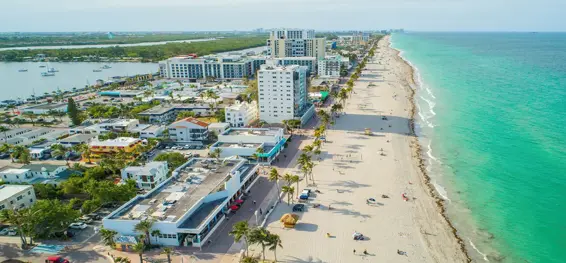
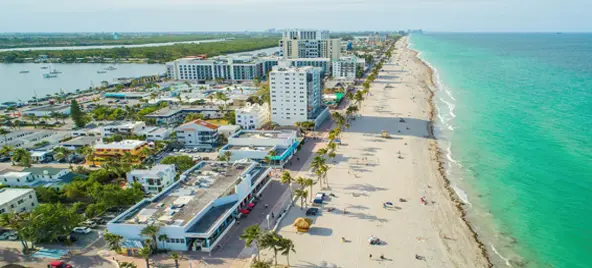
Cambios en las metricas y services.

diff --git a/front/index.html b/front/index.html
@@ -142,38 +142,21 @@
 
           <div>
             <div class="container text-left">
-              <div class="row align-items-start" style="margin-bottom: 0">
+              <div class="row metrics-row">
                 <div class="col-sm column-divider">
-                  <strong
-                    >+$<span class="counter" data-target="300"></span>M</strong
-                  >
-                  <span class="stat-description"> Advisory Pipeline </span>
+                  <strong>
+                    +$<span class="counter" data-target="200"></span>M
+                  </strong>
+                  <span class="stat-description">Advised Transactions</span>
                 </div>
+
                 <div class="col-sm column-divider">
-                  <strong
-                    >+$<span class="counter" data-target="145"></span>M</strong
-                  >
-                  <span class="stat-description"> Advised Transactions </span>
-                </div>
-                <div class="col-sm column-divider">
-                  <strong
-                    >+<span class="counter" data-target="20"></span
-                    >Years</strong
-                  >
-                  <span class="stat-description"> Global Experience </span>
+                  <strong>
+                    +<span class="counter" data-target="20"></span>Years
+                  </strong>
+                  <span class="stat-description">Global Experience</span>
                 </div>
               </div>
-            </div>
-
-            <div class="col text-start">
-              <a
-                href="./about-us.html"
-                class="btn btn-outline-dark btn-learn-more rounded-pill custom-btn-style"
-                style="margin-top: 40px; text-align: left"
-              >
-                About Us
-                <i class="bi bi-arrow-right"></i>
-              </a>
             </div>
           </div>
         </div>
@@ -181,62 +164,37 @@
         <div id="services" class="our-services">
           <h2 class="section-title">Services</h2>
 
-          <section class="services">
-            <div class="row no-margin-top">
-              <div class="col-md-12">
-                <div class="border">
-                  <div class="accordion-content">
-                    <div class="accordion-item">
-                      <h3 class="accordion-header">
-                        <strong
-                          >Strategic Advisory & Capital Partners Network</strong
-                        >
-                      </h3>
-                      <p>
-                        We provide strategic advisory services to experienced
-                        developers and facilitate introductions to a network of
-                        strategic partners, institutional counterparties, and
-                        family offices interested in high-quality real estate
-                        opportunities.
-                      </p>
-                      <hr />
-                    </div>
+          <section class="services-container">
+            <div class="services-grid">
+              <!-- Servicio 1 -->
+              <div class="service-column">
+                <h3>Strategic Advisory & Capital Partners Network</h3>
+                <p>
+                  We provide strategic advisory to experienced developers and
+                  facilitate introductions to institutional counterparties and
+                  family offices interested in high-quality real estate
+                  opportunities.
+                </p>
+              </div>
 
-                    <div class="accordion-item">
-                      <h3 class="accordion-header">
-                        <strong>Project Positioning & Capital Alignment</strong>
-                      </h3>
-                      <p>
-                        We assist developers in positioning projects to align
-                        with the investment criteria and strategic objectives of
-                        potential capital partners, supporting constructive
-                        engagement and long-term relationships between
-                        independent counterparties.
-                      </p>
-                      <hr />
-                    </div>
+              <!-- Servicio 2 -->
+              <div class="service-column">
+                <h3>Project Positioning & Capital Alignment</h3>
+                <p>
+                  We assist developers in positioning projects to align with the
+                  investment criteria of potential capital partners, supporting
+                  long-term relationships between independent counterparties.
+                </p>
+              </div>
 
-                    <div class="accordion-item">
-                      <h3 class="accordion-header">
-                        <strong>M&A Advisory</strong>
-                      </h3>
-                      <p>
-                        We provide tailored advisory support on strategic
-                        initiatives and M&A transactions, helping clients make
-                        informed decisions in complex transactions and strategic
-                        investments.
-                      </p>
-                    </div>
-                  </div>
-
-                  <div class="image-container">
-                    <img
-                      src="./source/imagenes/imagen11.webp"
-                      alt="Real estate strategic advisory services"
-                      class="img-fluid"
-                    />
-                  </div>
-                </div>
+              <!-- Servicio 3 -->
+              <div class="service-column">
+                <h3>M&A Advisory</h3>
+                <p>
+                  Tailored advisory support on strategic initiatives and M&A
+                  transactions, helping clients navigate complex decisions and
+                  investments.
+                </p>
               </div>
             </div>
           </section>
@@ -339,7 +297,7 @@
                     <p class="card-text">
                       Strategic advisory in connection with the refinancing of
                       the land and pre-development structuring for a luxury
-                      waterfront residential project - Hollywood, Florida
+                      waterfront residential project - Hollywood, Florida .
                     </p>
                   </div>
                 </div>

diff --git a/front/styles/styles-completo.css b/front/styles/styles-completo.css
@@ -99,6 +99,35 @@ nav ul {
   margin-left: auto; /* Empuja los enlaces a la derecha */
 }
 
+/* Métricas principales */
+.metrics-row {
+  max-width: 900px;
+  margin: 0 auto !important;
+}
+
+.metrics-row .column-divider {
+  text-align: left;
+  padding-top: 20px;
+}
+
+.metrics-row .column-divider::before {
+  left: 0;
+  transform: none;
+  width: 75%;
+  height: 3px;
+}
+
+.metrics-row .column-divider strong {
+  font-size: 3rem;
+  font-weight: 700;
+}
+
+.metrics-row .stat-description {
+  display: block;
+  margin-top: 2px;
+  font-size: 17px;
+}
+
 nav ul li {
   display: inline-block;
   line-height: 80px;
@@ -1079,5 +1108,83 @@ video {
   }
   .services-h6 {
     scroll-margin-top: 100px; /* Ajusta este valor según la altura de tu barra de navegación */
+  }
+}
+
+
+/* =========================================
+   NUEVA SECCIÓN SERVICES (Estilo Word)
+   ========================================= */
+
+.our-services-updated {
+  max-width: 1200px;
+  margin: 0 auto;
+  padding: 60px 20px;
+}
+
+/* Título principal sin subrayado y alineado a la izquierda */
+.section-title-word {
+  font-family: Arial, Helvetica, sans-serif;
+  font-size: 38px;
+  font-weight: 700;
+  color: #000;
+  margin-bottom: 50px;
+  text-align: left;
+}
+
+/* Grilla de 3 columnas para escritorio */
+.services-grid {
+  display: grid;
+  grid-template-columns: repeat(3, 1fr);
+  gap: 40px;
+}
+
+/* Estilo de cada columna de servicio */
+.service-column {
+  text-align: left;
+  position: relative;
+  padding-top: 25px; /* Espacio para la línea negra superior */
+}
+
+/* Línea negra superior (emulando el diseño de las métricas) */
+.service-column::before {
+  content: "";
+  position: absolute;
+  top: 0;
+  left: 0;
+  width: 100%;
+  height: 2px;
+  background-color: #000;
+}
+
+.service-column h3 {
+  font-family: Arial, Helvetica, sans-serif;
+  font-size: 18px;
+  font-weight: 700;
+  margin-bottom: 15px;
+  color: #000;
+  line-height: 1.4;
+}
+
+.service-column p {
+  font-family: Arial, Helvetica, sans-serif;
+  font-size: 16px;
+  color: #333;
+  line-height: 1.6;
+  margin: 0;
+}
+
+/* =========================================
+   MEDIA QUERIES (Versión Móvil)
+   ========================================= */
+@media (max-width: 768px) {
+  .services-grid {
+    grid-template-columns: 1fr; /* Pasa a 1 sola columna apilada */
+    gap: 40px;
+  }
+  
+  .section-title-word {
+    font-size: 30px;
+    margin-bottom: 30px;
   }
 }
